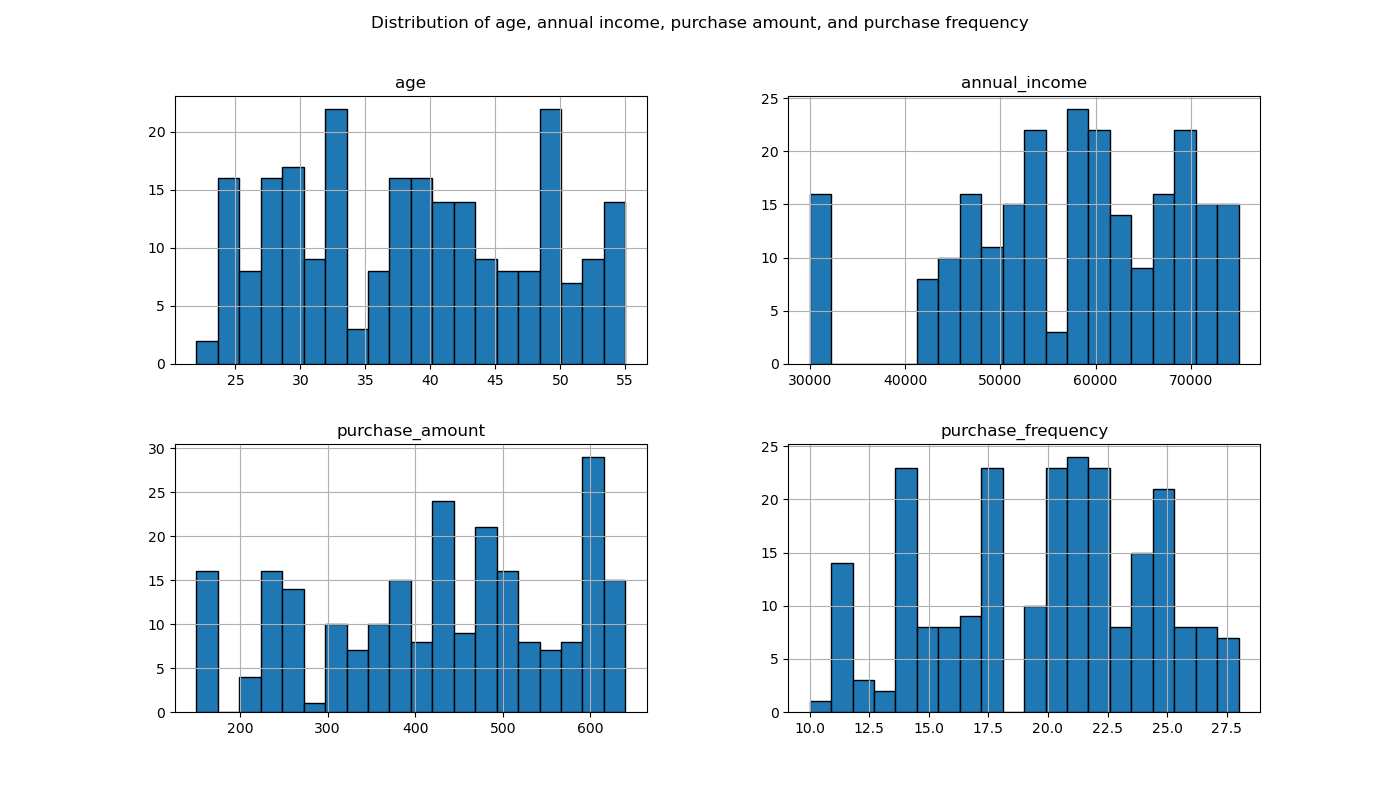
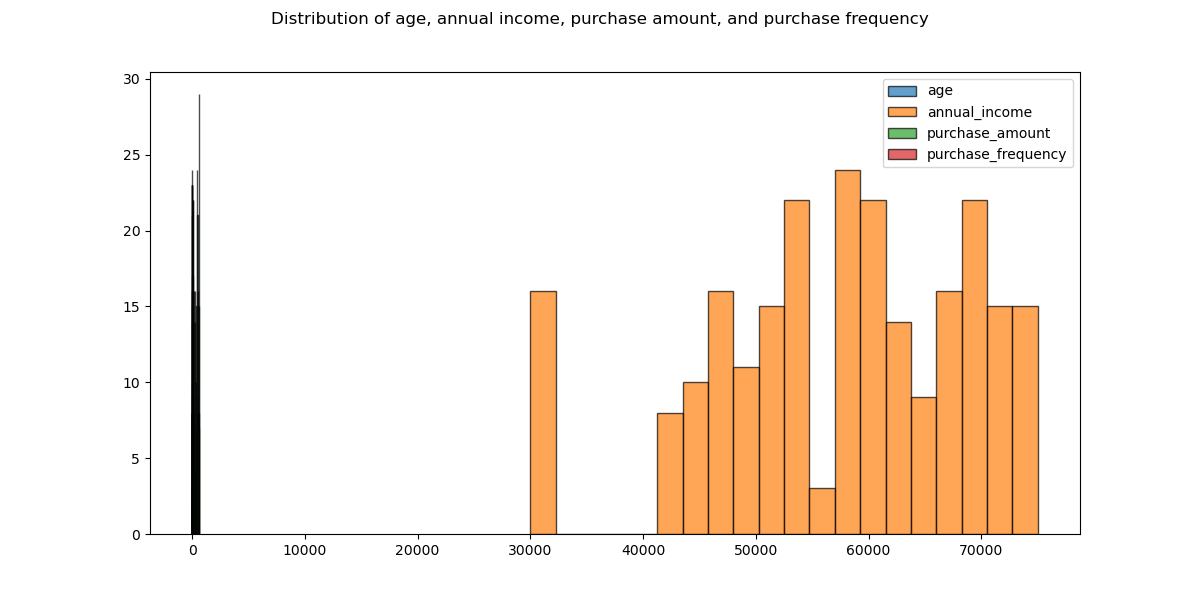
polars descriptive script

diff --git a/main.py b/main.py
@@ -1,105 +1,85 @@
-import pandas as pd
+import polars as pl
 import matplotlib.pyplot as plt
-import seaborn as sns
 
 file_path = "Customer Purchasing Behaviors.csv"
-output_report = "summary_report.md" 
- 
+output_report = "summary_report.md"
+
 def read_csv_file(path):
-    return pd.read_csv(path)
+    return pl.read_csv(path)
 
 def summary_statistics(dataframe, report_file):
     """Display summary statistics for numerical columns in the DataFrame."""
-    summary = dataframe.describe().transpose()
-    summary['median'] = dataframe.median(numeric_only=True)
-    summary['range'] = summary['max'] - summary['min']
-    summary['variance'] = dataframe.var(numeric_only=True)
+    summary = dataframe.describe()
+
+    # Transpose the summary DataFrame for better readability
+    summary_t = summary.transpose(include_header=True)
 
     with open(report_file, 'a', encoding='utf-8') as file:
         file.write("### Summary Statistics\n")
-        file.write(summary.to_string())
+        file.write("\n| Metric | " + " | ".join(summary_t.columns) + " |\n")
+        file.write("|--------|" + "------|" * len(summary_t.columns) + "\n")
+        
+        # Loop through summary statistics and format them in a markdown table
+        for row in summary_t.to_dicts():
+            row_values = [f"{row[col]}" for col in summary_t.columns]
+            file.write(f"| {row['column']} | " + " | ".join(row_values) + " |\n")
+
         file.write("\n\n")
 
 def plot_histograms(dataframe, columns, report_file, bins=20):
     """Plot histograms for specified columns in the DataFrame."""
     plt.figure(figsize=(12, 6))
-    dataframe[columns].hist(bins=bins, edgecolor='black', figsize=(14, 8))
+    
+    for col in columns:
+        plt.hist(dataframe[col].to_numpy(), bins=bins, edgecolor='black', alpha=0.7, label=col)
+    
     plt.suptitle('Distribution of age, annual income, purchase amount, and purchase frequency')
-    
-    plt.savefig("Histogram_column_distributions.png")
+    plt.legend(loc='upper right')
+    histogram_path = "Histogram_column_distributions.png"
+    plt.savefig(histogram_path)
+
+    # Add the histogram image to the markdown file
     with open(report_file, 'a', encoding='utf-8') as file:
-        file.write("![Histograms](Histogram_column_distributions.png)\n\n")
-
-def plot_scatter_with_hue(dataframe, x_col, y_col, hue_col, report_file):
-    """Visualize the relationship between annual income and purchase amount across different regions."""
-    plt.figure(figsize=(10, 6))
-    sns.scatterplot(x=x_col, y=y_col, data=dataframe, hue=hue_col)
-    plt.title(f'{x_col} vs. {y_col}')
-    plt.xlabel(x_col)
-    plt.ylabel(y_col)
-    
-    plt.savefig("scatter_plot_hue_by_region.png")
-    with open(report_file, 'a', encoding='utf-8') as file:
-        file.write(f"![{x_col} vs {y_col} with Hue](scatter_plot_hue_by_region.png)\n\n")
-
-def plot_box_by_category(dataframe, x_col, y_col, report_file):
-    """Compare the distribution of loyalty scores across different regions."""
-    plt.figure(figsize=(10, 6))
-    sns.boxplot(x=x_col, y=y_col, data=dataframe)
-    plt.title(f'{y_col} by {x_col}')
-    plt.xlabel(x_col)
-    plt.ylabel(y_col)
-
-    plt.savefig("Loyalty_score_by_region_boxplot.png")
-    with open(report_file, 'a', encoding='utf-8') as file:
-        file.write(f"![{y_col} by {x_col}](Loyalty_score_by_region_boxplot.png)\n\n")
-
-def plot_correlation_heatmap(dataframe, columns, report_file):
-    """Visualize the correlation matrix between purchase amount, purchase frequency, and loyalty score."""
-    plt.figure(figsize=(8, 6))
-    corr_matrix = dataframe[columns].corr()
-    sns.heatmap(corr_matrix, annot=True, cmap='coolwarm', fmt='.2f')
-    plt.title('Correlation Matrix')
-
-    plt.savefig("Correlation_matrix_columns.png")
-    with open(report_file, 'a', encoding='utf-8') as file:
-        file.write("![Correlation Matrix](Correlation_matrix_columns.png)\n\n")
-
-def plot_scatter_with_trend(dataframe, x_col, y_col, report_file):
-    """Visualize the relationship between annual income and purchase amount with a trend line."""
-    plt.figure(figsize=(10, 6))
-    sns.scatterplot(x=x_col, y=y_col, data=dataframe)
-    sns.regplot(x=x_col, y=y_col, data=dataframe, scatter=False, color='red')
-    plt.title(f'{x_col} vs. {y_col} with Trend Line')
-    plt.xlabel(x_col)
-    plt.ylabel(y_col)
-
-    plt.savefig("scatter_plot_trend_line.png")
-    with open(report_file, 'a', encoding='utf-8') as file:
-        file.write(f"![{x_col} vs {y_col} with Trend](scatter_plot_trend_line.png)\n\n")
+        file.write(f"### Histograms for Selected Columns\n")
+        file.write(f"![Histograms]({histogram_path})\n\n")
 
 def plot_bar_by_category(dataframe, category_col, value_col, report_file):
     """Compare average purchase amounts by region."""
     plt.figure(figsize=(10, 6))
-    dataframe.groupby(category_col)[value_col].mean().plot(kind='bar')
+
+    # Perform group_by and explicitly name the aggregation result as 'average_value'
+    avg_purchase = dataframe.group_by(category_col).agg(
+        pl.col(value_col).mean().alias('average_value')
+    )
+
+    # Convert Polars columns to numpy for direct plotting
+    categories = avg_purchase[category_col].to_numpy()
+    values = avg_purchase['average_value'].to_numpy()  # Accessing the renamed column 'average_value'
+
+    plt.bar(categories, values)
+    
     plt.title(f'Average {value_col} by {category_col}')
     plt.xlabel(category_col)
     plt.ylabel(f'Average {value_col}')
+    
+    bar_plot_path = "bar_plot_average_purchase_amt_by_regions.png"
+    plt.savefig(bar_plot_path)
 
-    plt.savefig("bar_plot_average_purchase_amt_by_regions.png")
+    # Add the bar plot image to the markdown file
     with open(report_file, 'a', encoding='utf-8') as file:
-        file.write(f"![Average {value_col} by {category_col}](bar_plot_average_purchase_amt_by_regions.png)\n\n")
-
-# Reading the data
+        file.write(f"### Bar Plot: Average {value_col} by {category_col}\n")
+        file.write(f"![Bar Plot]({bar_plot_path})\n\n")
+        
+# Reading the data using Polars
 df = read_csv_file(file_path)
+
+# Clear the contents of the report file to start fresh
+with open(output_report, 'w', encoding='utf-8') as file:
+    file.write("# Summary Report\n\n")
 
 # Writing summary statistics to the summary report file
 summary_statistics(df, output_report)
 
 # Generating plots and saving them in the summary report file
 plot_histograms(df, ['age', 'annual_income', 'purchase_amount', 'purchase_frequency'], output_report)
-plot_scatter_with_hue(df, 'annual_income', 'purchase_amount', 'region', output_report)
-plot_box_by_category(df, 'region', 'loyalty_score', output_report)
-plot_correlation_heatmap(df, ['purchase_amount', 'purchase_frequency', 'loyalty_score'], output_report)
-plot_scatter_with_trend(df, 'annual_income', 'purchase_amount', output_report)
 plot_bar_by_category(df, 'region', 'purchase_amount', output_report)

diff --git a/summary_report.md b/summary_report.md
@@ -1,24 +1,22 @@
+# Summary Report
+
 ### Summary Statistics
 
-|                | count      | mean         | std          | min   | 25%   | 50%   | 75%    | max   | median | range  | variance      |
-|----------------|------------|--------------|--------------|-------|-------|-------|--------|-------|--------|--------|---------------|
-| user_id        | 238.0      | 119.500000   | 68.848868    | 1.0   | 60.25 | 119.5 | 178.750 | 238.0 | 119.5  | 237.0  | 4.740167e+03 |
-| age            | 238.0      | 38.676471    | 9.351118     | 22.0  | 31.00 | 39.0  | 46.750 | 55.0  | 39.0   | 33.0   | 8.744341e+01 |
-| annual_income  | 238.0      | 57407.563025 | 11403.875717 | 30000.0 | 50000.00 | 59000.0 | 66750.000 | 75000.0 | 59000.0 | 45000.0 | 1.300484e+08 |
-| purchase_amount| 238.0      | 425.630252   | 140.052062   | 150.0 | 320.00 | 440.0 | 527.500 | 640.0 | 440.0  | 490.0  | 1.961458e+04 |
-| loyalty_score  | 238.0      | 6.794118     | 1.899047     | 3.0   | 5.50  | 7.0   | 8.275  | 9.5   | 7.0    | 6.5    | 3.606379e+00 |
-| purchase_frequency | 238.0   | 19.798319    | 4.562884     | 10.0  | 17.00 | 20.0  | 23.000 | 28.0  | 20.0   | 18.0   | 2.081991e+01 |
+| Metric | column | column_0 | column_1 | column_2 | column_3 | column_4 | column_5 | column_6 | column_7 | column_8 |
+|--------|------|------|------|------|------|------|------|------|------|------|
+| statistic | statistic | count | null_count | mean | std | min | 25% | 50% | 75% | max |
+| user_id | user_id | 238.0 | 0.0 | 119.5 | 68.84886830345629 | 1.0 | 60.0 | 120.0 | 179.0 | 238.0 |
+| age | age | 238.0 | 0.0 | 38.6764705882353 | 9.35111812969458 | 22.0 | 31.0 | 39.0 | 47.0 | 55.0 |
+| annual_income | annual_income | 238.0 | 0.0 | 57407.56302521008 | 11403.875717398343 | 30000.0 | 50000.0 | 59000.0 | 67000.0 | 75000.0 |
+| purchase_amount | purchase_amount | 238.0 | 0.0 | 425.6302521008403 | 140.0520617813922 | 150.0 | 320.0 | 440.0 | 530.0 | 640.0 |
+| loyalty_score | loyalty_score | 238.0 | 0.0 | 6.794117647058823 | 1.8990468014330923 | 3.0 | 5.5 | 7.0 | 8.3 | 9.5 |
+| region | region | 238 | 0 | None | None | East | None | None | None | West |
+| purchase_frequency | purchase_frequency | 238.0 | 0.0 | 19.798319327731093 | 4.562884260556764 | 10.0 | 17.0 | 20.0 | 23.0 | 28.0 |
 
 
+### Histograms for Selected Columns
 ![Histograms](Histogram_column_distributions.png)
 
-![annual_income vs purchase_amount with Hue](scatter_plot_hue_by_region.png)
-
-![loyalty_score by region](Loyalty_score_by_region_boxplot.png)
-
-![Correlation Matrix](Correlation_matrix_columns.png)
-
-![annual_income vs purchase_amount with Trend](scatter_plot_trend_line.png)
-
-![Average purchase_amount by region](bar_plot_average_purchase_amt_by_regions.png)
+### Bar Plot: Average purchase_amount by region
+![Bar Plot](bar_plot_average_purchase_amt_by_regions.png)
 

diff --git a/README.md b/README.md
@@ -1,7 +1,7 @@
 # Pandas Descriptive Script Mini Project
 [![CI](https://github.com/nogibjj/Mobasserul_Haque_MiniProject2/actions/workflows/cicd.yml/badge.svg)](https://github.com/nogibjj/Mobasserul_Haque_MiniProject2/actions/workflows/cicd.yml)
 
-This project performs exploratory data analysis (EDA) on a dataset containing customer purchasing behavior, providing insights into various patterns and relationships using pandas, Matplotlib, and Seaborn.
+This project performs exploratory data analysis (EDA) on a dataset containing customer purchasing behavior, providing insights into various patterns and relationships using Polars, Matplotlib, and Seaborn.
 
 ## Table of Contents
 - [Overview](#overview)
@@ -27,7 +27,7 @@ This project performs exploratory data analysis (EDA) on a dataset containing cu
 - [License](#license)
 
 ## Overview
-This project focuses on analyzing customer purchasing behavior using a dataset in CSV format. It generates various statistical summaries and visualizations to help understand trends, relationships, and distributions in the data.
+This project focuses on analyzing customer purchasing behavior using a dataset in CSV format using Polars. It generates various statistical summaries and visualizations to help understand trends, relationships, and distributions in the data.
 
 ## Source
 The dataset used in this project is **Customer Purchasing Behaviors**, which can be found on Kaggle:  
